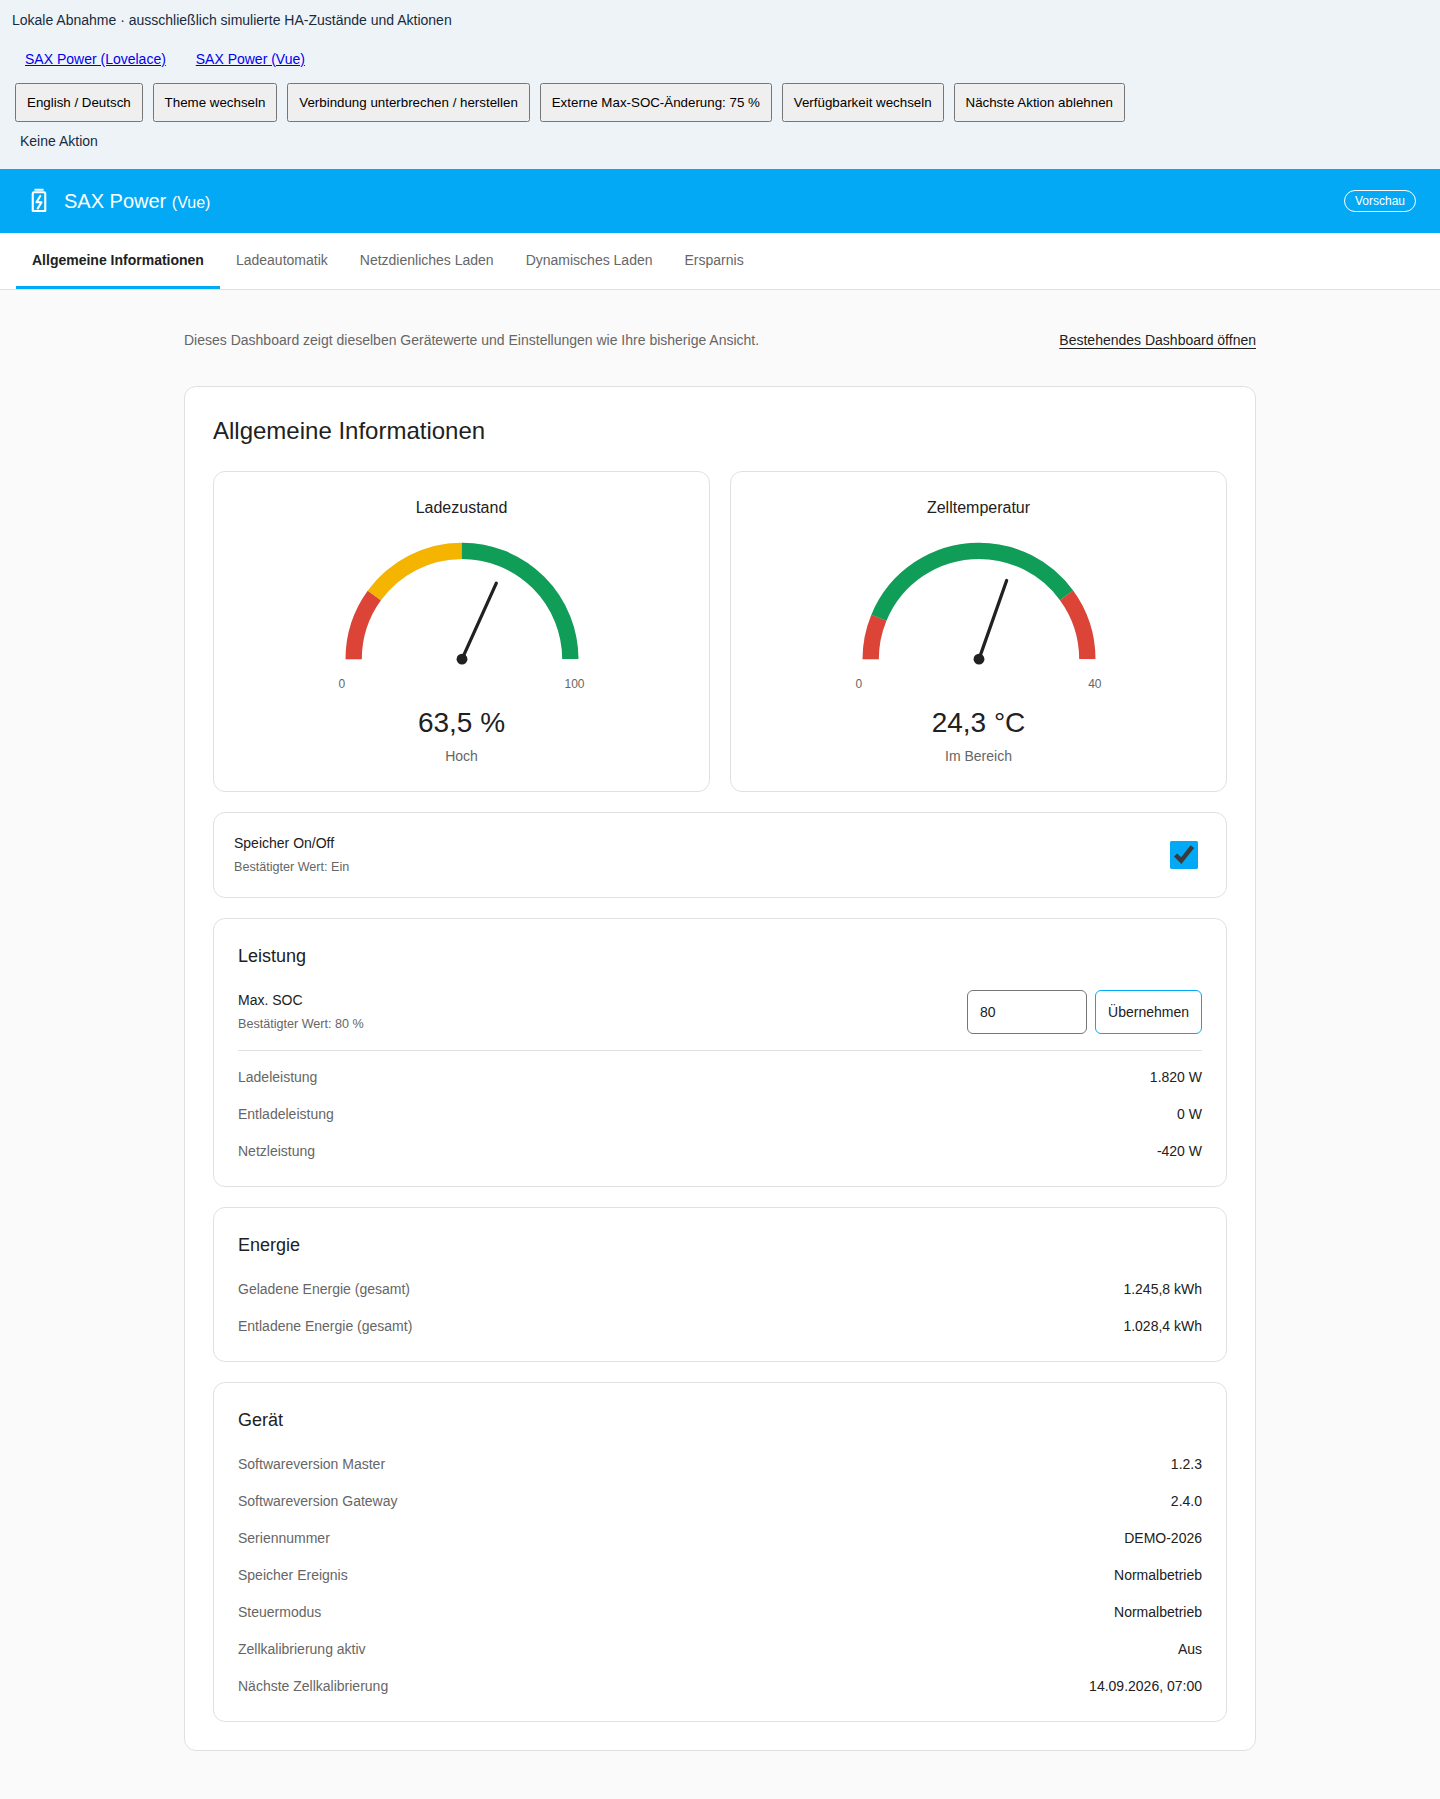
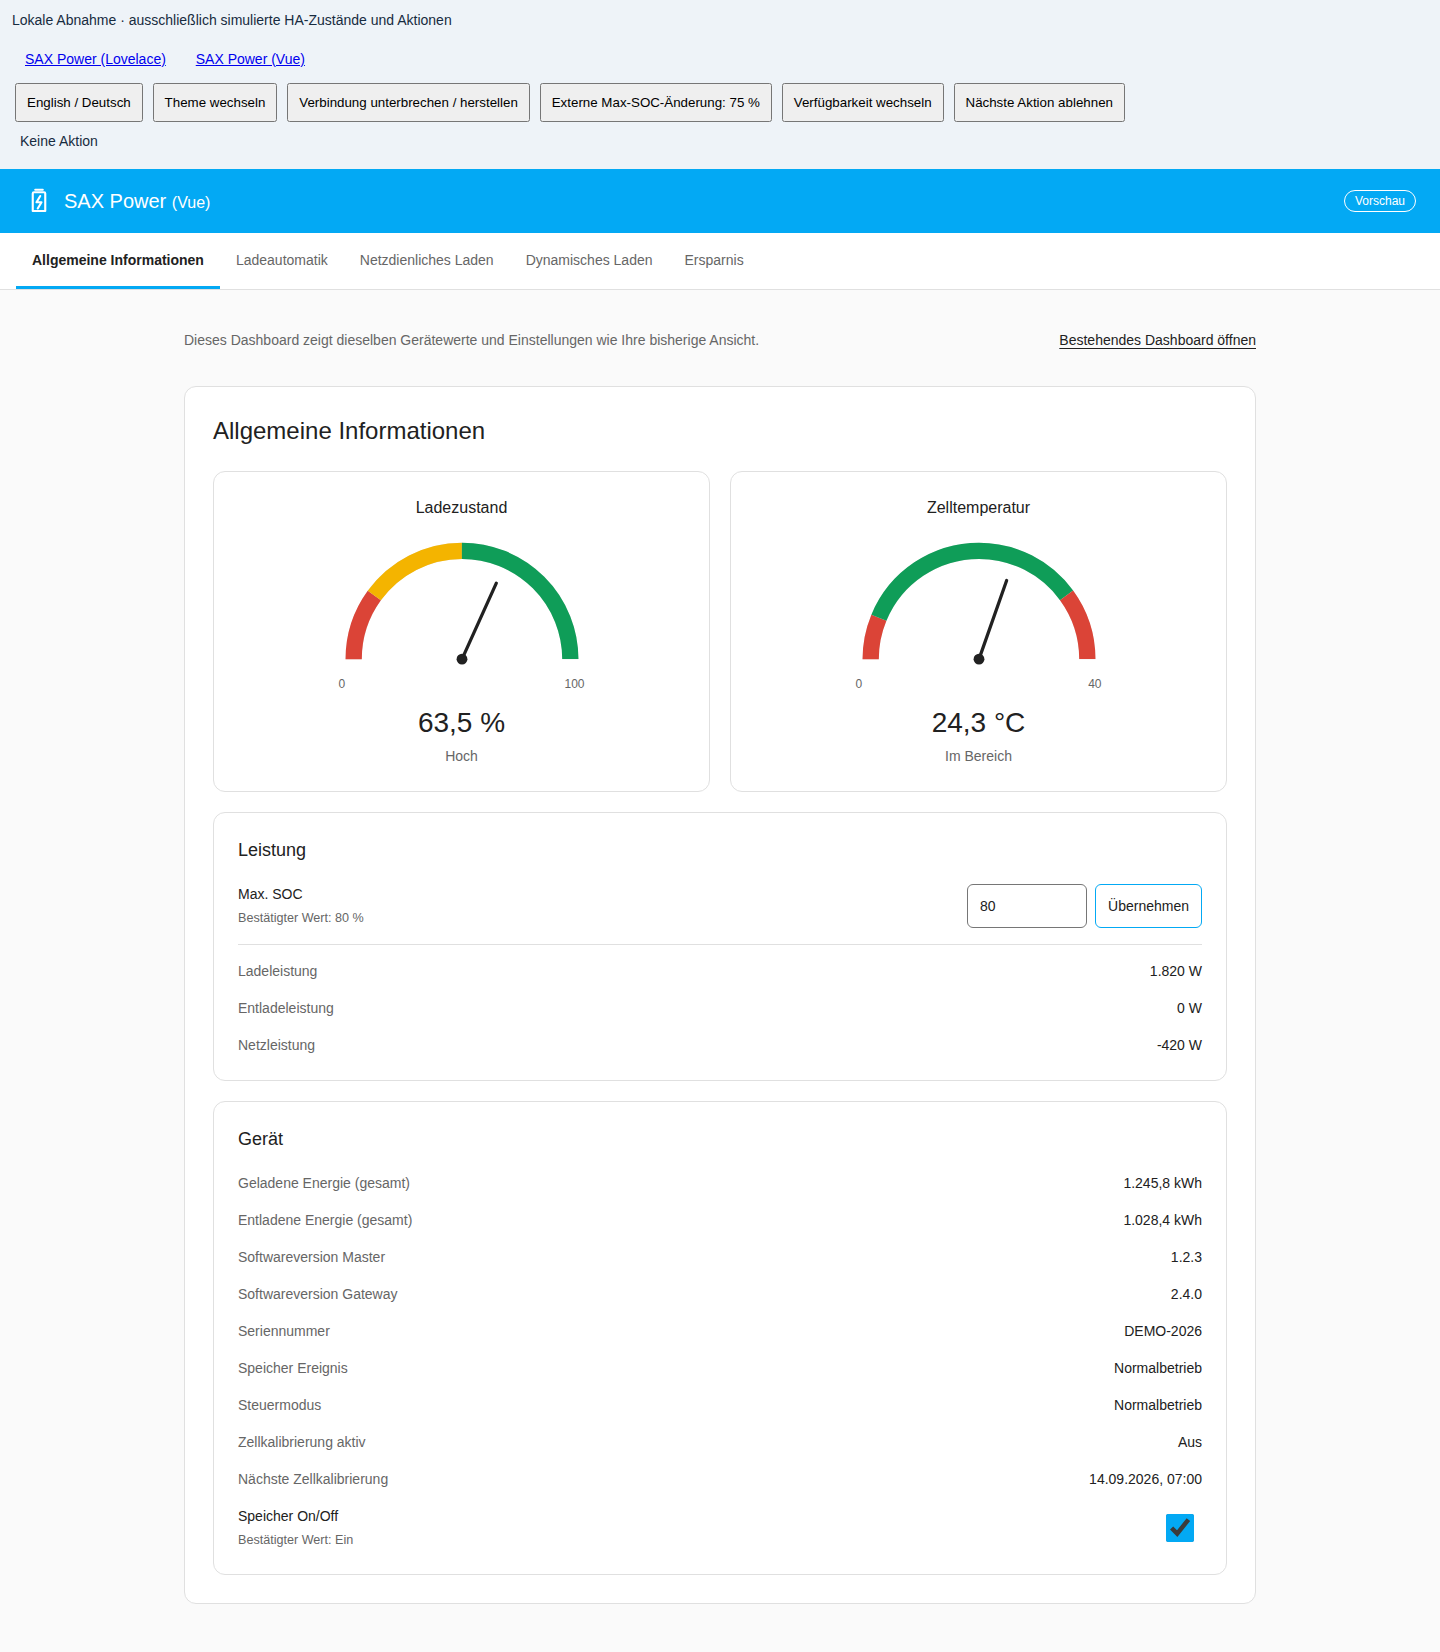
Belege Geräteanordnung und Sicherheitsabfragen mit Browserabnahme

diff --git a/docs/vue-dashboard-parity.md b/docs/vue-dashboard-parity.md
@@ -209,7 +209,26 @@ nicht benötigt. Das JSON-Ergebnis enthält Manifestversion, ZIP-SHA-256,
 Asset-SHA-256, Dateianzahl und Ergebnis. Die JS-Ausführung selbst wird separat
 im Produktionsmodul- und Browserlauf geprüft.
 
-### Historische Abnahme vom 12.09.2026
+### Abnahme der Gerätekarte und Schaltbestätigung
+
+[Commit 639695e5e347](https://github.com/dr-dimitri/sax-ha/commit/639695e5e3479f802c568704f3ae34f3e5bd473c)
+bestand am 12.09.2026 den vollständigen
+[CI-Lauf 34683284222](https://github.com/dr-dimitri/sax-ha/actions/runs/34683284222):
+Python, Ruff/Black, Release-Metadaten, HACS, hassfest, Frontend-Typen und
+Formatierung, **199 Komponententests**, Produktionsmodul-Smoke und
+reproduzierbarer Build. Lokal bestanden **1.813 Python-Tests** bei zwei
+erwarteten Hardware-Skips; es fand kein Test an einer echten Batterie statt.
+
+Alle **24 Browserfälle** bestanden ohne Wiederholung oder übersprungene Fälle.
+Die zusätzliche Prüfung bestätigt in allen vier Browserprojekten beide
+Schaltrichtungen, Abbrechen, Escape und Enter auf der vorausgewählten
+Abbruchaktion. Vor ausdrücklicher Bestätigung bleibt der HA-Zustand erhalten
+und es wird kein Service aufgerufen. Die neuen Screenshots unten stammen aus
+diesem Browserbericht und zeigen das gebaute Produktionsmodul mit simuliertem
+HA-Kontext. Die 13 zusätzlichen Komponententests prüfen außerdem ungültig
+gewordene Dialoge und doppelte Bestätigungen.
+
+### Frühere Paketabnahme vom 12.09.2026
 
 Der folgende Nachweis betrifft den Stand vor der geänderten allgemeinen
 Gerätekarte und deren Schalterbestätigung. Er ist keine Abnahme dieser
@@ -254,9 +273,9 @@ Hardware-Skips**; Ruff und Black sind erfolgreich.
 
 ### Screenshots
 
-Die Bilder stammen aus dem oben datierten Browserlauf. Die beiden Bilder der
-allgemeinen Informationen zeigen bis zu ihrer Aktualisierung noch die bisherige
-Kartenanordnung. Die übrigen Ansichten bleiben unverändert. Der
+Die Bilder der allgemeinen Informationen und der Schaltbestätigung stammen aus
+CI-Lauf 34683284222. Die übrigen Ansichten stammen aus dem früheren Lauf
+34681752310 und bleiben unverändert. Der
 hell abgesetzte Testbereich kennzeichnet simulierte Daten und zeigt beide
 Dashboard-Einstiege; der Link innerhalb des Vue-Panels führt ebenfalls zu
 Lovelace. Die native Darstellung von Zeit- und Datumsfeldern folgt dem Browser,
@@ -265,6 +284,8 @@ während Beschriftungen und bestätigte Werte die HA-Sprache verwenden.
 | Ansicht | Desktop, Deutsch, hell | Smartphone, Englisch, dunkel |
 | --- | --- | --- |
 | Allgemeine Informationen | [Screenshot](images/vue-allgemein-desktop-light-de.png) | [Screenshot](images/vue-allgemein-mobile-dark-en.png) |
+| Speicher ausschalten – Bestätigung | [Screenshot](images/vue-storage-confirm-off-desktop-light-de.png) | [Screenshot](images/vue-storage-confirm-off-mobile-dark-en.png) |
+| Speicher einschalten – Bestätigung | [Screenshot](images/vue-storage-confirm-on-desktop-light-de.png) | [Screenshot](images/vue-storage-confirm-on-mobile-dark-en.png) |
 | Ladeautomatik | [Screenshot](images/vue-ladeautomatik-desktop-light-de.png) | [Screenshot](images/vue-ladeautomatik-mobile-dark-en.png) |
 | Netzdienliches Laden | [Screenshot](images/vue-netzdienliches-laden-desktop-light-de.png) | [Screenshot](images/vue-netzdienliches-laden-mobile-dark-en.png) |
 | Dynamisches Laden | [Screenshot](images/vue-dynamisches-laden-desktop-light-de.png) | [Screenshot](images/vue-dynamisches-laden-mobile-dark-en.png) |
